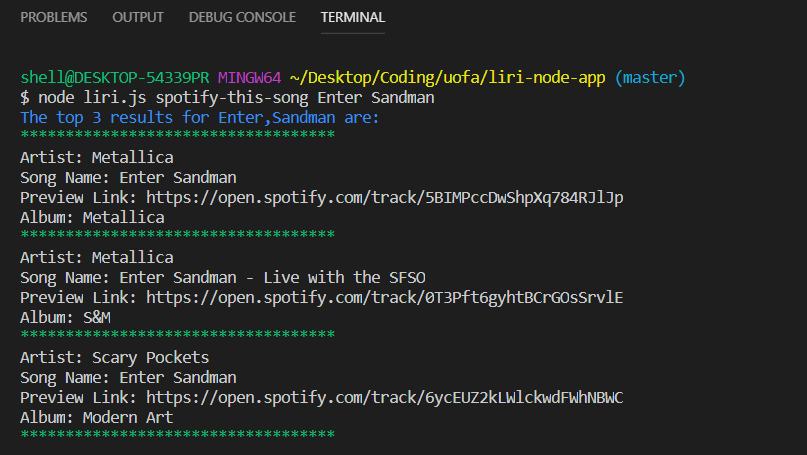
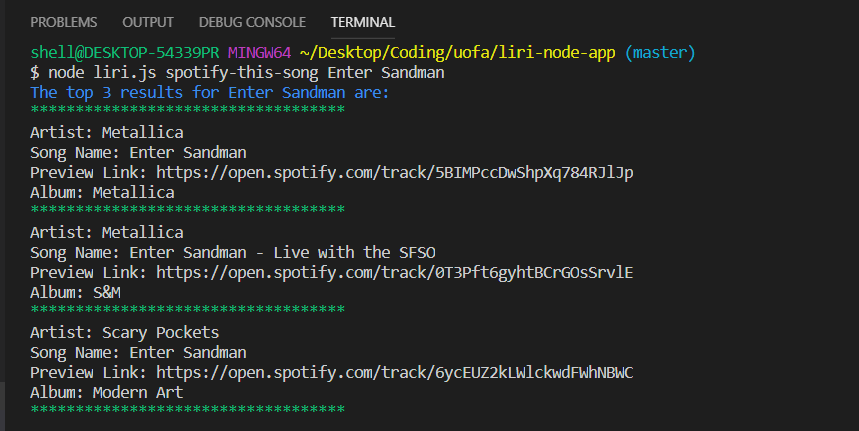
fixed slice on search variable

Changed region(s): [[0.0, 0.0, 0.8674, 1.0]]

diff --git a/liri.js b/liri.js
@@ -1,7 +1,7 @@
 // Initialize dotenv
 require("dotenv").config();
 
-//NPM modules
+//NPM packages
 const axios = require("axios");
 const chalk = require("chalk");
 const Spotify = require("node-spotify-api");
@@ -14,7 +14,7 @@ const spotify = new Spotify(keys.spotify);
 
 //variable to store user action requested
 let action = process.argv[2];
-let search = process.argv.slice(3).join();
+let search = process.argv.slice(3).join(" ");
 
 //FUNCTIONS
 
